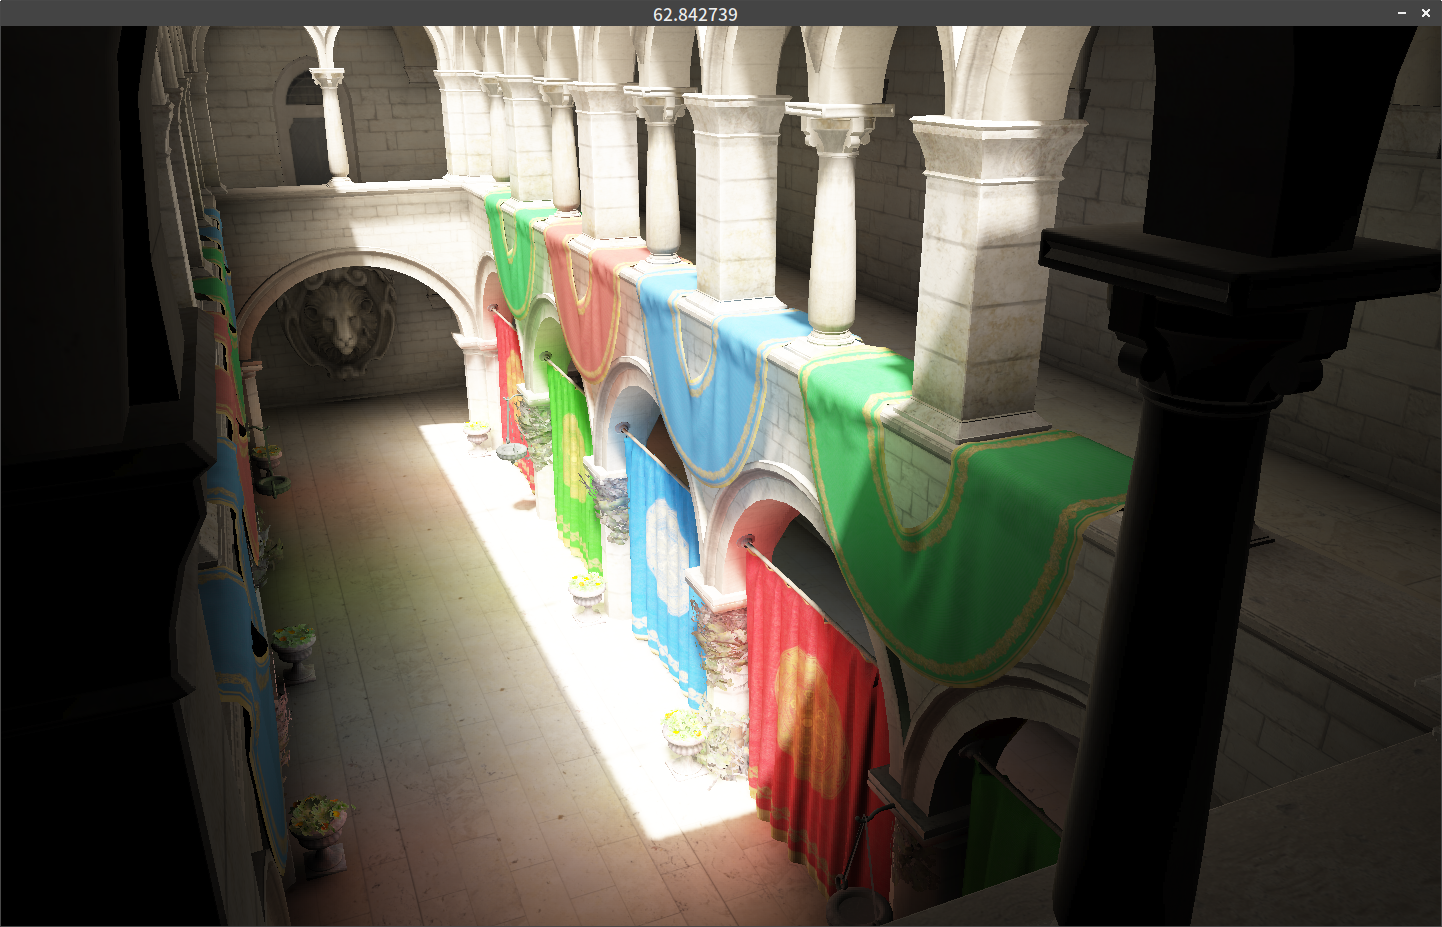
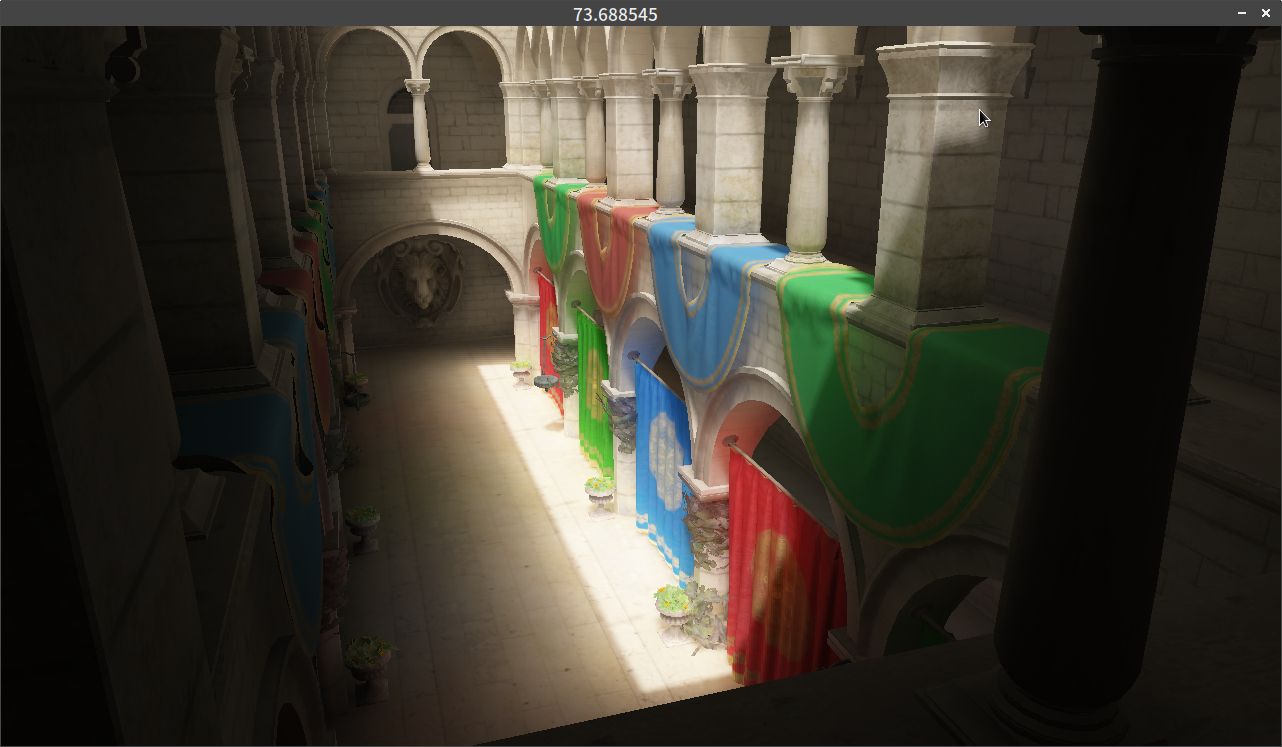
Calculate direct light in voxels with compute shader

diff --git a/Voxels.cpp b/Voxels.cpp
@@ -2,7 +2,7 @@
 // Created by adamyuan on 5/19/18.
 //
 
-#include "Voxelize.hpp"
+#include "Voxels.hpp"
 
 #include <glm/gtc/matrix_transform.hpp>
 #include <vector>
@@ -11,7 +11,7 @@
 
 #include <GLFW/glfw3.h>
 
-void Voxelize::Initialize()
+void Voxels::Initialize()
 {
 	//calculate mipmap sizes
 	max_mipmap_level_ = mygl3::Texture3D::GetLevel3D(kVoxelDimension.x, kVoxelDimension.y, kVoxelDimension.z);
@@ -37,9 +37,6 @@ void Voxelize::Initialize()
 	debug_shader_.SetUProjection(res::cam_projection);
 
 	voxelize_shader_.Initialize();
-	voxelize_shader_.SetULightDir(kLightDir);
-	voxelize_shader_.SetULightMatrix(res::light_matrix);
-
 	voxelize_shader_.SetUVoxelGridRangeMin(kVoxelGridRangeMin);
 	voxelize_shader_.SetUVoxelGridRangeMax(kVoxelGridRangeMax);
 	voxelize_shader_.SetUVoxelWorldSize(kVoxelWorldSize);
@@ -48,9 +45,16 @@ void Voxelize::Initialize()
 
 	bounce_shader_.Initialize();
 	bounce_shader_.SetUVoxelDimension(kVoxelDimension);
+
+	direct_light_shader_.Initialize();
+	direct_light_shader_.SetUVoxelDimension(kVoxelDimension);
+	direct_light_shader_.SetUVoxelGridRangeMin(kVoxelGridRangeMin);
+	direct_light_shader_.SetUVoxelWorldSize(kVoxelWorldSize);
+	direct_light_shader_.SetULightDir(kLightDir);
+	direct_light_shader_.SetULightMatrix(res::light_matrix);
 }
 
-void Voxelize::Update(const mygl3::Texture2D &shadow_map)
+void Voxels::Voxelize()
 {
 	glDisable(GL_CULL_FACE); glDisable(GL_DEPTH_TEST);
 	glBindImageTexture(5, albedo_texture_.Get(), 0, GL_TRUE, 0, GL_WRITE_ONLY, GL_RGBA8);
@@ -59,15 +63,16 @@ void Voxelize::Update(const mygl3::Texture2D &shadow_map)
 
 	glClear(GL_COLOR_BUFFER_BIT);
 	glViewport(0, 0, 1000, 1000);
+
 	double start = glfwGetTime();
 	voxelize_shader_.Use();
-	shadow_map.Bind(1);
+
 	res::sponza_model.Render();
-	printf("Voxelize lasted: %lf sec\n", glfwGetTime() - start);
+	printf("Voxelize lasted: %lf ms\n", (glfwGetTime() - start) * 1000.0f);
 	glEnable(GL_CULL_FACE); glEnable(GL_DEPTH_TEST);
 }
 
-void Voxelize::GenerateMipmap()
+void Voxels::GenerateMipmap()
 {
 	double start = glfwGetTime();
 
@@ -92,17 +97,33 @@ void Voxelize::GenerateMipmap()
 		glMemoryBarrier(GL_SHADER_IMAGE_ACCESS_BARRIER_BIT);
 	}
 
-	//voxel_texture_.GenerateMipmap();
-	printf("Mipmapping lasted: %lf sec\n", glfwGetTime() - start);
+	printf("Mipmapping lasted: %lf ms\n", (glfwGetTime() - start) * 1000.0f);
 }
 
-void Voxelize::Bounce()
+void Voxels::DirectLight(const mygl3::Texture2D &shadow_map)
+{
+	double start = glfwGetTime();
+
+	direct_light_shader_.Use();
+
+	glBindImageTexture(0, radiance_texture_.Get(), 0, GL_TRUE, 0, GL_WRITE_ONLY, GL_RGBA16);
+	albedo_texture_.Bind(0);
+	normal_texture_.Bind(1);
+	shadow_map.Bind(2);
+
+	glDispatchCompute(compute_group_sizes_[0].x, compute_group_sizes_[0].y, compute_group_sizes_[0].z);
+	glMemoryBarrier(GL_SHADER_IMAGE_ACCESS_BARRIER_BIT);
+
+	printf("Direct light lasted: %lf ms\n", (glfwGetTime() - start) * 1000.0f);
+}
+
+void Voxels::Bounce()
 {
 	double start = glfwGetTime();
 
 	bounce_shader_.Use();
 
-	glBindImageTexture(0, radiance_texture_.Get(), 0, GL_TRUE, 0, GL_READ_WRITE, GL_RGBA16);
+	glBindImageTexture(0, radiance_texture_.Get(), 0, GL_TRUE, 0, GL_WRITE_ONLY, GL_RGBA16);
 	albedo_texture_.Bind(0);
 	normal_texture_.Bind(1);
 	for(GLuint f = 0; f < 6; ++f) mipmaps_[f].Bind(f + 2);
@@ -110,10 +131,10 @@ void Voxelize::Bounce()
 	glDispatchCompute(compute_group_sizes_[0].x, compute_group_sizes_[0].y, compute_group_sizes_[0].z);
 	glMemoryBarrier(GL_SHADER_IMAGE_ACCESS_BARRIER_BIT);
 
-	printf("Calculate a diffuse bounce lasted: %lf sec\n", glfwGetTime() - start);
+	printf("Calculate a diffuse bounce lasted: %lf ms\n", (glfwGetTime() - start) * 1000.0f);
 }
 
-void Voxelize::initialize_textures()
+void Voxels::initialize_textures()
 {
 	auto *data = new GLubyte[kVoxelDimension.x * kVoxelDimension.y * kVoxelDimension.z * 4];
 	std::fill(data, data + kVoxelDimension.x * kVoxelDimension.y * kVoxelDimension.z * 4, 0);
@@ -157,7 +178,7 @@ void Voxelize::initialize_textures()
 	}
 }
 
-void Voxelize::initialize_debug_object()
+void Voxels::initialize_debug_object()
 {
 	std::vector<glm::vec3> vertices;
 	std::vector<unsigned> indices;
@@ -266,7 +287,7 @@ void Voxelize::initialize_debug_object()
 	debug_object_.SetAttributes(0, 3, 1, 3, 2, 3);
 }
 
-void Voxelize::Debug()
+void Voxels::Debug()
 {
 	glDisable(GL_CULL_FACE);
 	radiance_texture_.SetSizeFilter(GL_NEAREST, GL_NEAREST);

diff --git a/dep/asserts/VoxelDirectLightShader.hpp b/dep/asserts/VoxelDirectLightShader.hpp
@@ -1,0 +1,69 @@
+//GENERATED BY GLSL_GEN
+#ifndef VOXELDIRECTLIGHTSHADER_HPP
+#define VOXELDIRECTLIGHTSHADER_HPP
+#include <glm/glm.hpp>
+#include <glm/gtc/type_ptr.hpp>
+#include <fstream>
+#include <GL/gl3w.h>
+namespace asserts {
+class VoxelDirectLightShader {
+private:
+	GLuint program_{0};
+public:
+	void Use() const { glUseProgram(program_); }
+	GLuint Get() const { return program_; }
+	VoxelDirectLightShader() = default;
+	~VoxelDirectLightShader(){ if(program_ != 0) glDeleteProgram(program_); }
+	VoxelDirectLightShader(const VoxelDirectLightShader &) = delete;
+	VoxelDirectLightShader& operator= (const VoxelDirectLightShader &) = delete;
+private:
+	GLint unif_uVoxelDimension;
+	GLint unif_uLightMatrix;
+	GLint unif_uLightDir;
+	GLint unif_uVoxelGridRangeMin;
+	GLint unif_uVoxelWorldSize;
+public:
+	void Initialize() {
+		GLuint shader;
+		program_ = glCreateProgram();
+		std::ifstream in; std::string str;
+		char log[100000]; int success;
+		in.open("shaders/voxel_direct_light.comp");
+		if(in.is_open()) {
+			std::getline(in, str, '\0');
+			in.close();
+		} else {
+			str.clear();
+			printf("[GLSLGEN ERROR] failed to load shaders/voxel_direct_light.comp\n");
+		}
+		const char *GL_COMPUTE_SHADER_src = str.c_str();
+		shader = glCreateShader(GL_COMPUTE_SHADER);
+		glShaderSource(shader, 1, &GL_COMPUTE_SHADER_src, nullptr);
+		glCompileShader(shader);
+		glGetShaderiv(shader, GL_COMPILE_STATUS, &success);
+		if(!success) {
+			glGetShaderInfoLog(shader, 100000, nullptr, log);
+			printf("[GLSLGEN ERROR] compile error in shaders/voxel_direct_light.comp:\n%s\n", log);
+		}
+		glAttachShader(program_, shader);
+		glLinkProgram(program_);
+		glDeleteShader(shader);
+		unif_uVoxelDimension = glGetUniformLocation(program_, "uVoxelDimension");
+		unif_uLightMatrix = glGetUniformLocation(program_, "uLightMatrix");
+		unif_uLightDir = glGetUniformLocation(program_, "uLightDir");
+		unif_uVoxelGridRangeMin = glGetUniformLocation(program_, "uVoxelGridRangeMin");
+		unif_uVoxelWorldSize = glGetUniformLocation(program_, "uVoxelWorldSize");
+	}
+	void SetUVoxelDimension(const glm::ivec3 &v) { glProgramUniform3iv(program_, unif_uVoxelDimension, 1, glm::value_ptr(v)); }
+	GLint GetUVoxelDimensionLocation() const { return unif_uVoxelDimension; };
+	void SetULightMatrix(const glm::mat4 &v) { glProgramUniformMatrix4fv(program_, unif_uLightMatrix, 1, GL_FALSE, glm::value_ptr(v)); }
+	GLint GetULightMatrixLocation() const { return unif_uLightMatrix; };
+	void SetULightDir(const glm::vec3 &v) { glProgramUniform3fv(program_, unif_uLightDir, 1, glm::value_ptr(v)); }
+	GLint GetULightDirLocation() const { return unif_uLightDir; };
+	void SetUVoxelGridRangeMin(const glm::vec3 &v) { glProgramUniform3fv(program_, unif_uVoxelGridRangeMin, 1, glm::value_ptr(v)); }
+	GLint GetUVoxelGridRangeMinLocation() const { return unif_uVoxelGridRangeMin; };
+	void SetUVoxelWorldSize(GLfloat v) { glProgramUniform1f(program_, unif_uVoxelWorldSize, v); }
+	GLint GetUVoxelWorldSizeLocation() const { return unif_uVoxelWorldSize; };
+};
+}
+#endif

diff --git a/Renderer.cpp b/Renderer.cpp
@@ -17,11 +17,14 @@ void Renderer::Initialize()
 
 	skybox_.Initialize();
 
-	voxelize_.Initialize();
-	voxelize_.Update(shadow_map_.Get());
-	voxelize_.GenerateMipmap();
-	voxelize_.Bounce();
-	voxelize_.GenerateMipmap();
+	voxels_.Initialize();
+
+	voxels_.Voxelize();
+	voxels_.DirectLight(shadow_map_.Get());
+	voxels_.GenerateMipmap();
+
+	voxels_.Bounce();
+	voxels_.GenerateMipmap();
 
 	gbuffer_.Initialize();
 
@@ -49,14 +52,14 @@ void Renderer::Render(bool debug_voxel, bool indirect_trace, bool show_albedo, b
 		glViewport(0, 0, kWidth, kHeight);
 
 		glClear(GL_COLOR_BUFFER_BIT | GL_DEPTH_BUFFER_BIT);
-		voxelize_.Debug();
+		voxels_.Debug();
 		return;
 	}
 
 	gbuffer_.Update();
 
 	if(indirect_trace)
-		cone_tracer_.Update(gbuffer_, voxelize_);
+		cone_tracer_.Update(gbuffer_, voxels_);
 
 	glViewport(0, 0, kWidth, kHeight);
 	glDisable(GL_DEPTH_TEST);
@@ -69,8 +72,8 @@ void Renderer::Render(bool debug_voxel, bool indirect_trace, bool show_albedo, b
 	cone_tracer_.Get().Bind(3);
 	skybox_.Get().Bind(4);
 	shadow_map_.Get().Bind(5);
-	voxelize_.GetRadiance().Bind(6);
-	for(int i = 0; i < 6; ++i) voxelize_.GetMipmap()[i].Bind(i + 9u);
+	voxels_.GetRadiance().Bind(6);
+	for(int i = 0; i < 6; ++i) voxels_.GetMipmap()[i].Bind(i + 9u);
 
 	final_shader_.Use();
 

diff --git a/Voxels.hpp b/Voxels.hpp
@@ -2,8 +2,8 @@
 // Created by adamyuan on 5/19/18.
 //
 
-#ifndef VXGITEST_VOXELIZE_HPP
-#define VXGITEST_VOXELIZE_HPP
+#ifndef VXGITEST_VOXELS_HPP
+#define VXGITEST_VOXELS_HPP
 
 #include <vector>
 #include <mygl3/vertexobject.hpp>
@@ -12,8 +12,9 @@
 #include <asserts/VoxelMipmapShader.hpp>
 #include <asserts/VoxelDebugShader.hpp>
 #include <asserts/VoxelBounceShader.hpp>
+#include <asserts/VoxelDirectLightShader.hpp>
 
-class Voxelize
+class Voxels
 {
 private:
 	mygl3::Texture3D radiance_texture_, normal_texture_, albedo_texture_, mipmaps_[6];
@@ -26,12 +27,14 @@ private:
 	mygl3::VertexObject<true> debug_object_;
 
 	asserts::VoxelBounceShader bounce_shader_;
+	asserts::VoxelDirectLightShader direct_light_shader_;
 	void initialize_textures();
 	void initialize_debug_object();
 public:
 	void Initialize();
-	void Update(const mygl3::Texture2D &shadow_map);
+	void Voxelize();
 	void GenerateMipmap();
+	void DirectLight(const mygl3::Texture2D &shadow_map);
 	void Bounce();
 	void Debug();
 	const mygl3::Texture3D &GetAlbedo() const { return albedo_texture_; }
@@ -41,4 +44,4 @@ public:
 };
 
 
-#endif //VXGITEST_VOXELIZE_HPP
+#endif //VXGITEST_VOXELS_HPP

diff --git a/Config.hpp b/Config.hpp
@@ -7,7 +7,7 @@
 
 #include <glm/glm.hpp>
 
-constexpr int kWidth = 1440, kHeight = 900;
+constexpr int kWidth = 1280, kHeight = 720;
 constexpr int kHalfWidth = kWidth / 2, kHalfHeight = kHeight / 2;
 constexpr double kMouseX = kWidth / 2.0, kMouseY = kHeight / 2.0;
 
@@ -15,7 +15,7 @@ constexpr unsigned kInvocationSize = 2;
 
 constexpr int kShadowWidth = 2048, kShadowHeight = 2048;
 
-constexpr float kVoxelWorldSize = 0.25f;
+constexpr float kVoxelWorldSize = 0.125f;
 extern const glm::vec3 kVoxelGridRangeMin, kVoxelGridRangeMax;
 extern const glm::ivec3 kVoxelDimension;
 

diff --git a/ConeTracer.cpp b/ConeTracer.cpp
@@ -5,7 +5,7 @@
 #include "ConeTracer.hpp"
 #include "Config.hpp"
 #include "Resources.hpp"
-#include "Voxelize.hpp"
+#include "Voxels.hpp"
 
 void ConeTracer::Initialize()
 {
@@ -27,7 +27,7 @@ void ConeTracer::Initialize()
 	trace_shader_.SetUVoxelGridRangeMax(kVoxelGridRangeMax);
 }
 
-void ConeTracer::Update(const GBuffer &gbuffer, const Voxelize &voxels)
+void ConeTracer::Update(const GBuffer &gbuffer, const Voxels &voxels)
 {
 	mygl3::FrameBufferBinder binder(fbo_);
 

diff --git a/ConeTracer.hpp b/ConeTracer.hpp
@@ -9,7 +9,7 @@
 #include <mygl3/framebuffer.hpp>
 #include <asserts/TraceShader.hpp>
 #include "GBuffer.hpp"
-#include "Voxelize.hpp"
+#include "Voxels.hpp"
 
 class ConeTracer
 {
@@ -19,7 +19,7 @@ private:
 	asserts::TraceShader trace_shader_;
 public:
 	void Initialize();
-	void Update(const GBuffer &gbuffer, const Voxelize &voxels);
+	void Update(const GBuffer &gbuffer, const Voxels &voxels);
 	const mygl3::Texture2D &Get() const { return half_result_; }
 };
 

diff --git a/Renderer.hpp b/Renderer.hpp
@@ -8,7 +8,7 @@
 #include <mygl3/framebuffer.hpp>
 #include "ShadowMap.hpp"
 #include "Skybox.hpp"
-#include "Voxelize.hpp"
+#include "Voxels.hpp"
 #include "GBuffer.hpp"
 #include "ConeTracer.hpp"
 #include <asserts/FinalShader.hpp>
@@ -16,7 +16,7 @@
 class Renderer
 {
 private:
-	Voxelize voxelize_;
+	Voxels voxels_;
 	ShadowMap shadow_map_;
 	Skybox skybox_;
 	GBuffer gbuffer_;

diff --git a/README.md b/README.md
@@ -1,5 +1,5 @@
 # VcTest
-My voxel cone tracing test in the sponza scene. Tested on debian 9 with Nvidia Quadro M1200.
+My voxel cone tracing test in the sponza scene. Tested on debian 9 with Nvidia Quadro M1200. Uses about 1130MB video memory (for 512x256x256 voxels)
 ## Dependencies
 OpenGL(>=4.5), [glfw(3.2.1)](http://www.glfw.org/), [stb_image.h](https://github.com/nothings/stb), [gl3w](https://github.com/skaslev/gl3w), [tinyobjloader](https://github.com/syoyo/tinyobjloader)
 ## Build
@@ -14,7 +14,12 @@ make
 * C: Toggle albedo
 * V: Toggle voxel cone tracing
 * E: Toggle showing edge 
+* X: Debug voxel
 ## Screenshots
 ![alt text](https://raw.githubusercontent.com/AdamYuan/VcTest/master/screenshots/1.png)
 ![alt text](https://raw.githubusercontent.com/AdamYuan/VcTest/master/screenshots/2.png)
 ![alt text](https://raw.githubusercontent.com/AdamYuan/VcTest/master/screenshots/3.png)
+## References
+* https://jose-villegas.github.io/post/deferred_voxel_shading/
+* http://simonstechblog.blogspot.com/2013/01/implementing-voxel-cone-tracing.html
+* http://www.seas.upenn.edu/~pcozzi/OpenGLInsights/OpenGLInsights-SparseVoxelization.pdf
